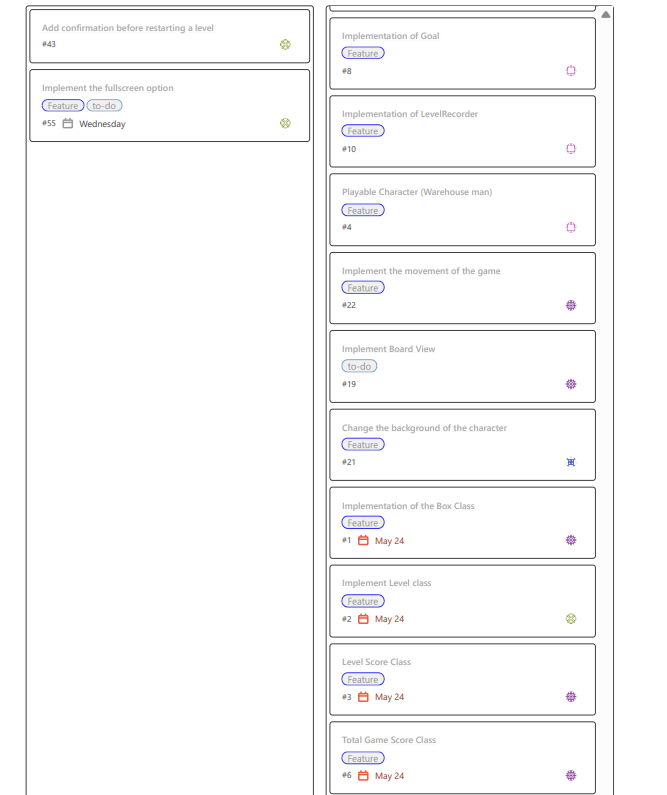
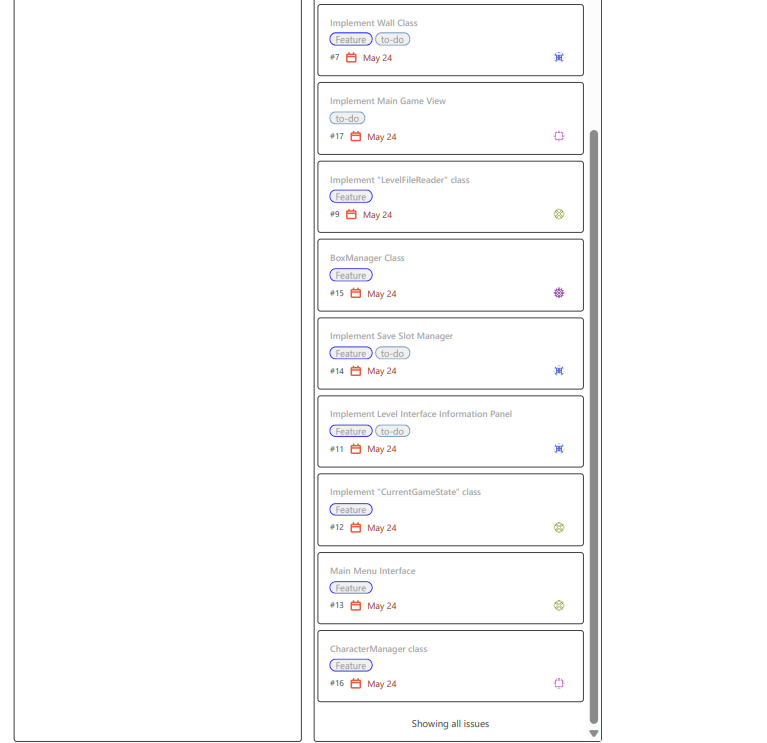
Despliegue de pantalla grande al empezar el juego con opciones de minimizar y quitar y cambio de errores en la cuadricula del juego

Changed region(s): [[0.0, 0.0, 0.9295, 1.0]]

diff --git a/sokobangame/src/main/java/es/upm/pproject/sokoban/view/BoardView.java b/sokobangame/src/main/java/es/upm/pproject/sokoban/view/BoardView.java
@@ -13,14 +13,7 @@ import javafx.scene.layout.GridPane;
 import javafx.scene.layout.StackPane;
 
 public class BoardView {
-
-    /*Antes teniamos:
      private static final int TILE_SIZE = 64;
-     Las casillas siempre medían 64x64 píxeles.
-     
-     Ahora ponemos esto para poder calcular el tamaño de las casillas según la 
-     resolución de pantalla y el tamaño del nivel para aprovechar mejor el modo pantalla completa. */
-    private final double tileSize;
 
     private final GridPane grid;
     private final Image sueloImg;
@@ -32,35 +25,18 @@ public class BoardView {
     private final Image golemEnGoalImg;
 
     public BoardView(ILevel level) {
-    
-    // Obtenemos con estas dos variables la resolución disponible de la pantalla
-    double screenWidth =
-            javafx.stage.Screen.getPrimary().getVisualBounds().getWidth();
+        grid = new GridPane();
+        sueloImg = loadImage("/images/suelo.jpg");
+        muroImg = loadImage("/images/muro.jpg");
+        goalImg = loadImage("/images/goal.jpg");
+        cajaImg = loadImage("/images/caja.png");
+        cajaEnGoalImg = loadImage("/images/cajaengoal.png");
+        jugadorImg = loadImage("/images/golemfondodepiedra.png");
+        golemEnGoalImg = loadImage("/images/golemgoal.png");
 
-    double screenHeight =
-            javafx.stage.Screen.getPrimary().getVisualBounds().getHeight();
+        buildBoard(level);
+    }
 
-    // Reservar espacio para la barra superior e inferior, sin esto el tablero se pone demasiado grande y tapa los botones
-    screenHeight -= 200; 
-    //Calculamos el tamaño de cada casilla
-    tileSize = Math.min(
-            screenWidth / level.getColumnas(),
-            screenHeight / level.getFilas()
-    );
-
-    grid = new GridPane();
-    grid.setAlignment(javafx.geometry.Pos.CENTER);
-
-    sueloImg = loadImage("/images/suelo.jpg");
-    muroImg = loadImage("/images/muro.jpg");
-    goalImg = loadImage("/images/goal.jpg");
-    cajaImg = loadImage("/images/caja.png");
-    cajaEnGoalImg = loadImage("/images/cajaengoal.png");
-    jugadorImg = loadImage("/images/golemfondodepiedra.png");
-    golemEnGoalImg = loadImage("/images/golemgoal.png");
-
-    buildBoard(level);
-}
 
     public GridPane getRoot() {
         return grid;
@@ -113,8 +89,8 @@ public class BoardView {
 
     private ImageView makeImageView(Image img) {
         ImageView iv = new ImageView(img);
-        iv.setFitWidth(tileSize);
-        iv.setFitHeight(tileSize); //Como hemos cambiado el nombre de la variable lo cambiamos aquí
+        iv.setFitWidth(TILE_SIZE);
+        iv.setFitHeight(TILE_SIZE); 
         iv.setPreserveRatio(false);
         iv.setSmooth(false);
         return iv;

diff --git a/sokobangame/src/main/java/es/upm/pproject/sokoban/controller/MenuController.java b/sokobangame/src/main/java/es/upm/pproject/sokoban/controller/MenuController.java
@@ -134,10 +134,14 @@ public class MenuController {
                 completedLevels = niveles;
             }
             GameCompleteView gameCompleteView = new GameCompleteView(this, totalScore, levelsCompleted, completedLevels);
-            Scene scene = new Scene(gameCompleteView.getRoot());
+
+            //Añadimos esto porque así mantenemos las dimensiones que tenía la ventana maximizada
+            //Usamos el tamaño de la escena actual y no el del Stage.Ya que el Stage incluye la barra de título y los bordes de la ventana,
+            // mientras que la Scene representa solo el área útil donde se dibuja la interfaz.
+            Scene scene = new Scene(gameCompleteView.getRoot(),stage.getScene().getWidth(),stage.getScene().getHeight());
             stage.setScene(scene);
 
-            stage.setMaximized(true);
+            //Quitamos el stage.setFullScreen porque eso obligaba a tener la pantalla completa sin los iconos de quitar ,maximizar y minimizar. Además con poner setMaximized en App.java ya sirve para que se quede grande toda la aplicación,y salgan dichos botones.  
 
             stage.show();
         }
@@ -152,11 +156,15 @@ public class MenuController {
         root.setTop(gameInfoView.getRoot());
         root.setCenter(boardView.getRoot());
         root.setBottom(mainGameView.getRoot());
-        Scene scene = new Scene(root);
+
+        //Añadimos esto porque así mantenemos las dimensiones que tenía la ventana maximizada
+        //Usamos el tamaño de la escena actual y no el del Stage.Ya que el Stage incluye la barra de título y los bordes de la ventana,
+        // mientras que la Scene representa solo el área útil donde se dibuja la interfaz.
+        Scene scene = new Scene(root,stage.getScene().getWidth(),stage.getScene().getHeight());
         scene.addEventFilter(KeyEvent.KEY_PRESSED, e -> { gameController.handleKey(e.getCode()); e.consume(); });
         stage.setScene(scene);
 
-        stage.setMaximized(true);
+        //Quitamos el stage.setFullScreen porque eso obligaba a tener la pantalla completa sin los iconos de quitar ,maximizar y minimizar. Además con poner setMaximized en App.java ya sirve para que se quede grande toda la aplicación,y salgan dichos botones.
 
         stage.show();
     }

diff --git a/sokobangame/src/main/java/es/upm/pproject/sokoban/App.java b/sokobangame/src/main/java/es/upm/pproject/sokoban/App.java
@@ -9,6 +9,7 @@ public class App extends Application {
 
     @Override
     public void start(Stage stage) {
+        //Quitamos el stage.setFullScreen porque eso obligaba a tener la pantalla completa sin los iconos de quitar ,maximizar y minimizar. Con setMaximized haces que la App se despliegue ya maximizada pero además con los botones esos
         stage.setMaximized(true);
         MenuController controller = new MenuController(stage);
         new MainMenuView(stage, controller);

diff --git a/sokobangame/src/main/java/es/upm/pproject/sokoban/view/MainMenuView.java b/sokobangame/src/main/java/es/upm/pproject/sokoban/view/MainMenuView.java
@@ -93,7 +93,7 @@ public class MainMenuView{
         MusicView.start(getClass().getResource("/music/musica_minecraft.mp3").toExternalForm()); //Pone musica
         stage.show();
 
-        stage.setMaximized(true);
+        //Quitamos el stage.setFullScreen porque eso obligaba a tener la pantalla completa sin los iconos de quitar ,maximizar y minimizar. Además con poner setMaximized en App.java ya sirve para que se quede grande toda la aplicación.
     }
 
 }

diff --git a/sokobangame/src/main/java/es/upm/pproject/sokoban/view/SaveGameView.java b/sokobangame/src/main/java/es/upm/pproject/sokoban/view/SaveGameView.java
@@ -101,7 +101,7 @@ public class SaveGameView {
 
         stage.setScene(scene);
 
-        stage.setMaximized(true);
+        //Quitamos el stage.setFullScreen porque eso obligaba a tener la pantalla completa sin los iconos de quitar ,maximizar y minimizar. Además con poner setMaximized en App.java ya sirve para que se quede grande toda la aplicación.
 
         stage.show();
     }
